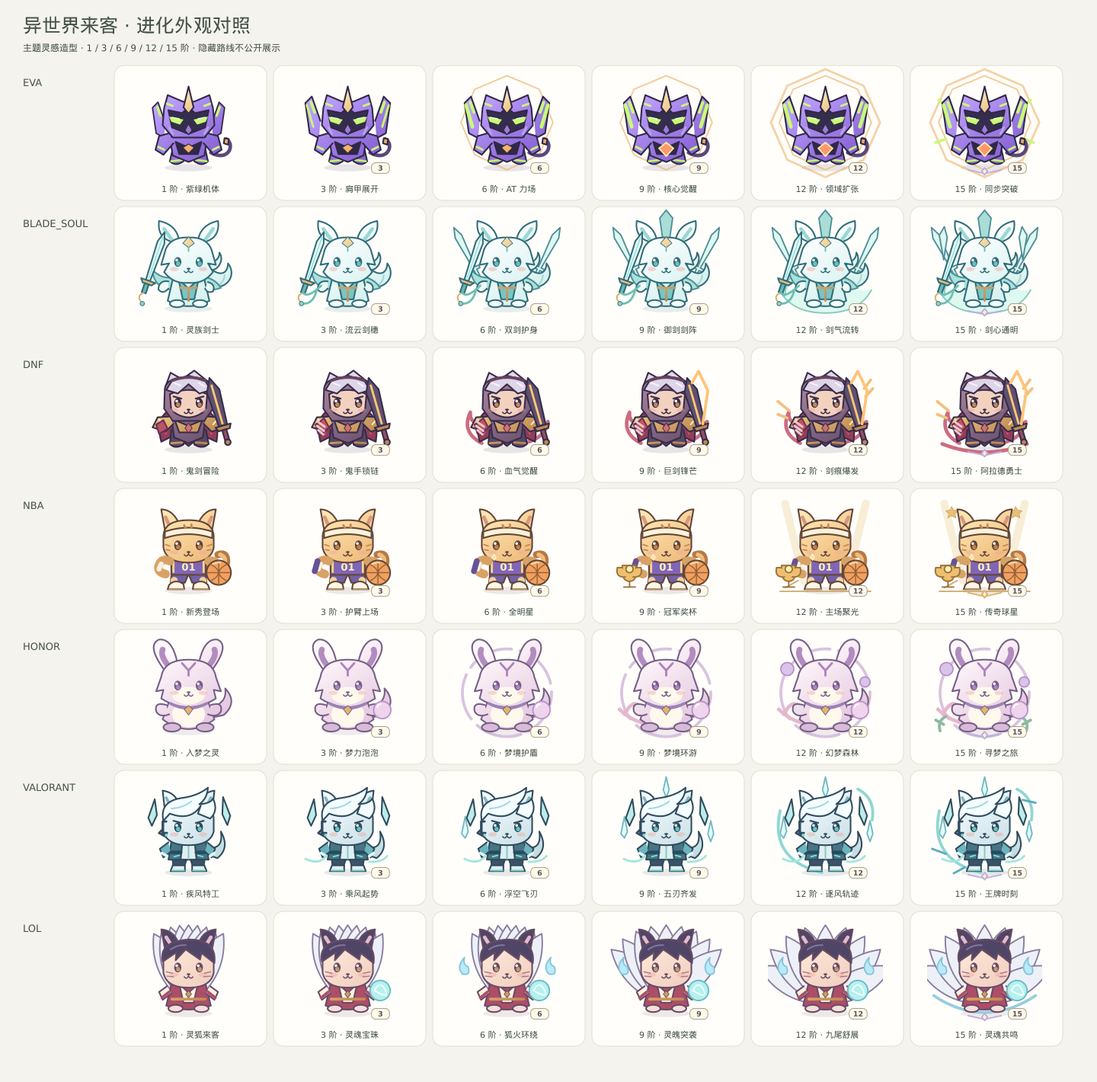
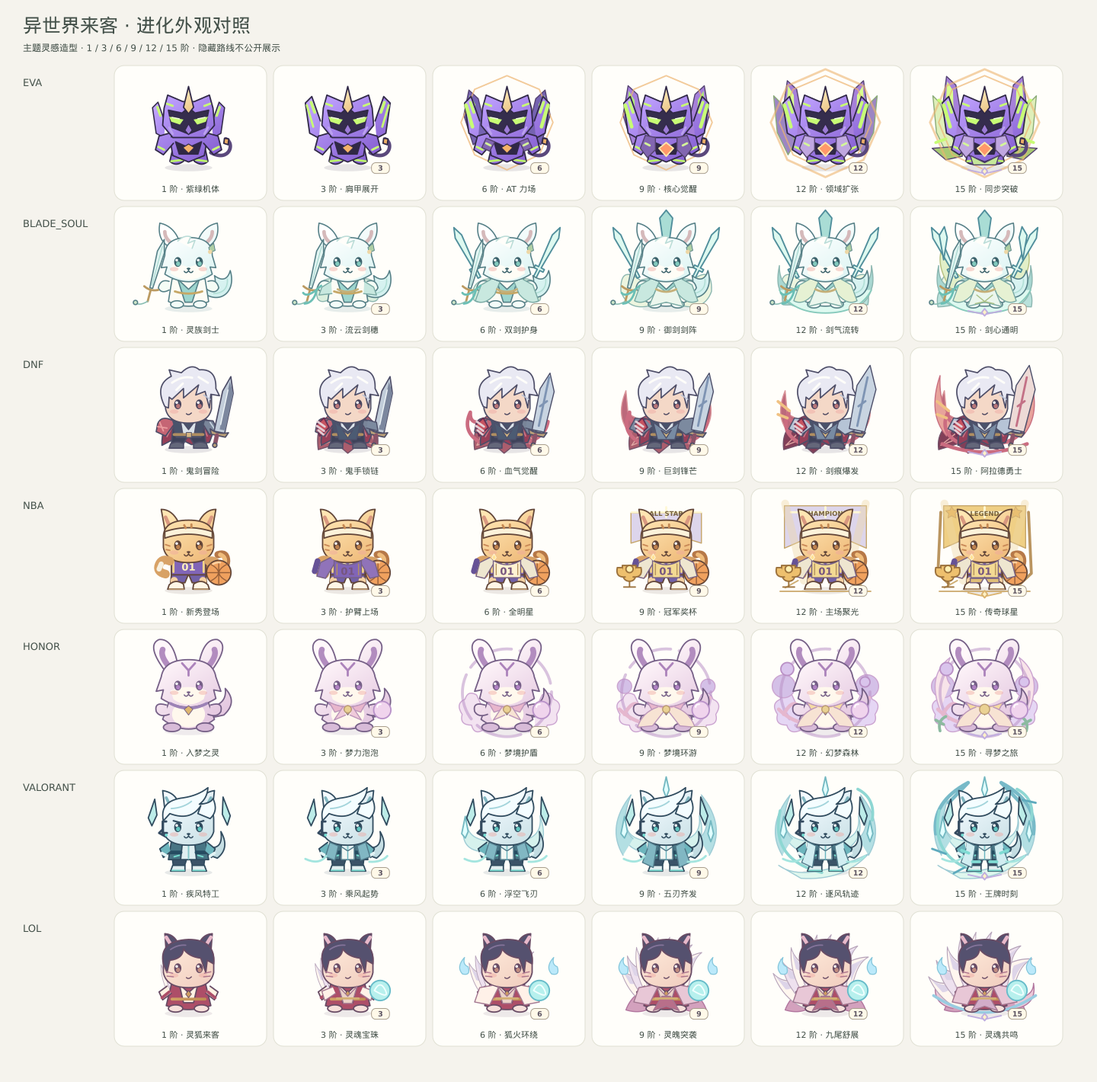
Polish pet fashion and strengthen evolved character silhouettes
Redraw the ghost swordsman and both fox-inspired companions. Add route-specific evolved clothing, armor, weapons and silhouette changes. Refine twelve wardrobe themes with softer materials, tailoring, and detailed headpieces while retaining worn round-toe shoes.

Verified TypeScript, ESLint, production build, seven frontend tests, SVG paint references, and bounds for all 48 milestone silhouettes.

diff --git a/app/pet-fashion-art.tsx b/app/pet-fashion-art.tsx
@@ -1,4 +1,4 @@
-import type { ReactNode } from "react";
+import { useId, type ReactNode } from "react";
 
 type FashionPiece = { slot: string; theme: string; primary: string; secondary: string };
 const CROPS: Record<string, string> = { headwear: "32 9 96 61", outfit: "39 93 82 48", outerwear: "26 91 108 59", handheld: "108 89 43 52", footwear: "43 122 75 24" };
@@ -10,10 +10,21 @@ function Bow({ color }: { color: string }) {
   return <g fill={color}><path d="M78 106q-13-11-12 0t12 1m4-1q13-11 12 0t-12 1" /><circle cx="80" cy="106" r="3" /></g>;
 }
 
+// 小面积服装使用同色系描边与柔和明暗，避免黑边把布料切成硬纸片。
+function tint(color: string, white: number) {
+  const channels = [1, 3, 5].map((offset) => Math.round(parseInt(color.slice(offset, offset + 2), 16) * (1 - white) + 255 * white));
+  return `rgb(${channels.join(",")})`;
+}
+
 /** Tailored to the shared face/body anchors. Icons and worn clothes use identical paths. */
 export function PetFashionArt({ item, illustrated = true, icon = false }: { item: FashionPiece; illustrated?: boolean; icon?: boolean }) {
-  const { slot, theme, primary: p, secondary: s } = item;
-  const ink = "#655765", cream = "#fff7e9";
+  const { slot, theme, primary, secondary } = item;
+  const uid = useId().replace(/[^a-zA-Z0-9_-]/g, "");
+  const fabric = `fashion-${uid}-fabric`;
+  const p = slot === "footwear" ? primary : `url(#${fabric})`;
+  const s = slot === "footwear" ? secondary : tint(secondary, .18);
+  const ink = theme === "forest" || theme === "academy" ? "#61755e" : theme === "sailor" || theme === "neon" || theme === "aurora" ? "#647e93" : theme === "berry" || theme === "phoenix" ? "#aa7880" : "#83768e";
+  const cream = "#fff9f0";
   const formal = ["starlight", "royal", "phoenix", "cosmos"].includes(theme);
   let art: ReactNode = null;
   if (slot === "headwear") art = <>
@@ -25,10 +36,20 @@ export function PetFashionArt({ item, illustrated = true, icon = false }: { item
     {theme === "detective" ? <><path d="M48 44q0-23 31-23t32 23l8 7H41Z" fill={p} /><path d="M78 23v22m-23-7h49M57 27l-2 18m45-17 3 17" stroke={s} strokeWidth="1.5" /><path d="M48 43v14l13-8m49-6v14l-13-8" fill={p} /><circle cx="79" cy="22" r="3" fill={s} /></> : null}
     {theme === "neon" ? <><path d="M44 59V44q1-24 36-24t36 24v15" stroke={p} strokeWidth="7" /><rect x="38" y="47" width="13" height="21" rx="6" fill={p} /><rect x="109" y="47" width="13" height="21" rx="6" fill={p} /><path d="M43 53v10m73-10v10" stroke={s} strokeWidth="4" /><path d="m64 23 5-6h22l5 6" stroke={s} /></> : null}
     {theme === "aurora" ? <><path d="M47 46q-3-29 33-29t33 29v12H99V47H61v11H47Z" fill={p} /><path d="M46 44q34-7 68 0v9q-34-6-68 0Z" fill={s} /><circle cx="80" cy="15" r="8" fill={s} /><path d="M80 27v12m-5-9 10 6m-10 0 10-6" stroke={s} /></> : null}
-    {formal ? <><path d={theme === "phoenix" ? "M54 46 46 31l19 5L80 16l15 20 19-5-8 15Z" : theme === "cosmos" ? "M51 47 57 26l15 9 8-22 8 22 15-9 6 21Z" : theme === "starlight" ? "M52 47 58 34l13 7 9-18 9 18 13-7 6 13Z" : "M51 47 48 27l21 10 11-20 11 20 21-10-3 20Z"} fill={s} /><path d="M53 47q27-7 54 0v6H53Z" fill={p} /><Star x={80} y={38} color={p} />{theme === "phoenix" ? <path d="M51 40q-15 13-17 1m74-1q15 13 17 1" stroke={s} strokeWidth="3" /> : null}</> : null}
+    {formal ? <g strokeWidth="1.2">
+      <path d="M50 46q30-9 60 0l-3 6q-27-6-54 0Z" fill={p} />
+      {theme === "starlight" ? <><path d="M54 45q26 6 52 0" stroke={s} strokeWidth="2" /><path d="M85 20a13 13 0 1 0 0 23q-15-8 0-23" fill={s} /><Star x={88} y={32} color={p} />{[57,65,73,87,95,103].map((x) => <circle key={x} cx={x} cy={46 + (x%3)} r="2.1" fill={cream} stroke="none" />)}</> : null}
+      {theme === "royal" ? <><path d="M78 47Q50 46 51 25m31 22q28-1 27-22" fill="none" stroke={s} strokeWidth="2" />{[0,1,2].map((i) => <g key={i} fill={s}><path d={`M${55+i*6} ${35+i*4}q-12-1-10-9 10 1 10 9m${50-i*12} 0q12-1 10-9-10 1-10 9`} /></g>)}<path d="m74 41 6-9 6 9-6 9Z" fill={s} /><circle cx="80" cy="41" r="3" fill={p} /></> : null}
+      {theme === "phoenix" ? <><path d="M78 45q-17-4-26-24 19 3 29 19-3-19 9-26 6 15-7 29 13-13 29-11-9 16-29 16Z" fill={s} /><path d="m61 28 17 16m10-21-6 20m22-7-19 10" stroke={p} fill="none" /><circle cx="80" cy="43" r="5" fill={p} /><path d="M56 48v10m48-10v10" stroke={s} /><circle cx="56" cy="58" r="2" fill={s} /><circle cx="104" cy="58" r="2" fill={s} /></> : null}
+      {theme === "cosmos" ? <><ellipse cx="80" cy="31" rx="30" ry="10" transform="rotate(-12 80 31)" stroke={s} fill="none" /><path d="M86 18a13 13 0 1 0 0 25q-17-10 0-25" fill={p} stroke={s} /><Star x={92} y={34} color={s} /><circle cx="53" cy="36" r="3" fill={s} /><circle cx="105" cy="23" r="2" fill={cream} /></> : null}
+    </g> : null}
   </>;
+  if (slot === "headwear" && theme === "berry") art = <>{art}<g fill={p} strokeWidth="1"><path d="M101 42q-13-10-13 0t13 2m3-2q13-10 13 0t-13 2" /><path d="m98 44-4 13 8-6 5 6-2-13" /><circle cx="102" cy="43" r="3" fill={s} /></g></>;
+  if (slot === "headwear" && theme === "forest") art = <>{art}{[0,1,2].map((i) => <g key={i} transform={`translate(${62+i*9} ${34+(i%2)*5})`}><path d="M0-3q6-6 6 1 7 1 1 5-1 6-5 1-6 2-3-4-4-4 1-3Z" fill={cream} strokeWidth=".7" /><circle cx="1" cy="1" r="1.6" fill={s} stroke="none" /></g>)}</>;
+  if (slot === "headwear" && theme === "aurora") art = <>{art}<path d="M57 29v10m8-14v13m8-15v13m15-13v13m8-11v13m8-9v10" stroke={cream} strokeOpacity=".6" strokeWidth="1" /></>;
+  if (slot === "headwear" && !formal && theme !== "neon") art = <>{art}<path d="M55 46q25-4 49 0" stroke={cream} strokeOpacity=".65" strokeDasharray="1 3" strokeWidth="1" fill="none" /></>;
   if (slot === "outfit") art = <>
-    <path d={theme === "cloud" || theme === "neon" ? "M57 99 68 96q12 9 24 0l11 3 8 15-9 4-3-8 4 25H84l-4-11-4 11H57l4-25-3 8-9-4Z" : theme === "berry" || theme === "forest" || formal ? "M59 98q21 10 42 0l7 10-10 4 15 20q-33 14-66 0l15-20-10-4Z" : "M57 98q23 10 46 0l9 13-12 5-1 18q-19 7-38 0l-1-18-12-5Z"} fill={p} />
+    <path d={theme === "cloud" || theme === "neon" ? "M59 99 69 97q11 8 22 0l10 2q11 3 10 14l-10 4-2-8 3 24q-9 7-18 2l-4-11-4 11q-9 5-18-2l3-24-2 8-10-4q-1-11 10-14Z" : theme === "berry" ? "M60 99q20 8 40 0 15 2 10 14l-10 1q17 18 5 23-25 8-50 0-12-5 5-23l-10-1q-5-12 10-14Z" : theme === "forest" ? "M60 99q20 9 40 0 12 2 10 12l-10 4 10 17q-5 12-30 8-25 4-30-8l10-17-10-4q-2-10 10-12Z" : theme === "starlight" ? "M63 99q17 10 34 0l6 12-9 3q5 11 19 20-15 12-33 5-18 7-33-5 14-9 19-20l-9-3Z" : theme === "royal" ? "M60 99q20 8 40 0l9 12-12 4 12 20q-29 9-58 0l12-20-12-4Z" : theme === "phoenix" ? "M59 98q21 10 42 0l15 17-14 7-5-9 8 22-25 6-25-6 8-22-5 9-14-7Z" : theme === "cosmos" ? "M62 99q18 10 36 0l9 10-11 6q5 16 19 18-22 17-35 4-13 13-35-4 14-2 19-18l-11-6Z" : "M59 99q21 9 42 0l10 12-11 5-1 18q-19 7-38 0l-1-18-11-5Z"} fill={p} />
     {theme === "academy" ? <><path d="m68 100 12 13 12-13-12 5Z" fill={cream} /><path d="m80 109-4 15 4 4 4-4Z" fill={s} /><path d="M62 123h36m-37 7h39m-30-12v17m20-17v17" stroke={s} strokeWidth=".9" opacity=".6" /></> : null}
     {theme === "berry" ? <><path d="M64 112q16 9 32 0l7 19q-23 10-46 0Z" fill={cream} /><Bow color={s} /><path d="m75 121 5-3 5 3-5 7Z" fill={p} /><path d="M51 132q3 7 7 0 4 8 8 2 5 7 9 1 5 7 10 0 5 6 9-1 4 6 8-2 5 7 8 0" fill={s} /></> : null}
     {theme === "cloud" ? <><path d="M69 110q11-8 22 0v14H69Z" fill={s} /><circle cx="80" cy="109" r="2" fill={p} /><path d="M67 100q13 12 26 0" stroke={s} strokeWidth="4" /><Star x={59} y={113} color="#ffe9ad" /></> : null}
@@ -37,12 +58,20 @@ export function PetFashionArt({ item, illustrated = true, icon = false }: { item
     {theme === "detective" ? <><path d="m68 101 12 13 12-13-4 27H72Z" fill={s} /><path d="M80 115v18m-15-11h7m16 0h7" stroke={ink} /><circle cx="84" cy="122" r="1.4" fill={ink} /><circle cx="84" cy="129" r="1.4" fill={ink} /></> : null}
     {theme === "neon" ? <><path d="m66 101 4 30m24-30-4 30M54 113l12 3m28 0 12-3" stroke={s} strokeWidth="2.5" /><path d="M74 111h12v8H74Z" fill={s} /><path d="m80 122 0 8" stroke={cream} /></> : null}
     {theme === "aurora" ? <><path d="M60 101q20 11 40 0m-38 31q18 7 36 0M80 110v24" stroke={s} strokeWidth="6" /><circle cx="75" cy="118" r="2" fill={s} /><circle cx="75" cy="125" r="2" fill={s} /></> : null}
-    {formal ? <><path d={theme === "phoenix" ? "M65 101 90 123l-6 10-19-27m29-5-26 22" : "M67 101q13 9 26 0l-7 16 18 15q-24 8-48 0l18-15Z"} fill={s} /><path d="M59 127q21 12 42 0" stroke={cream} strokeWidth="1" /><Star x={80} y={115} color={p} />{theme === "cosmos" ? <path d="M63 127q6-12 17 0t17-1" stroke={p} /> : null}</> : null}
+    {formal ? <>
+      {theme === "phoenix" ? <><path d="m64 101 29 23-6 12-22-29m30-6-27 23" fill={s} /><path d="M62 122q18 8 36 0l-1 5q-17 7-34 0Z" fill={p} /><path d="m80 126-9 12m13-12 9 12" stroke={s} strokeWidth="2" /></> : <><path d="M68 102q12 8 24 0l-6 14H74Z" fill={s} /><path d="M74 116q-2 10-14 17 12 4 20-1 8 5 20 1-12-7-14-17Z" fill={cream} fillOpacity=".75" /><path d="M56 128q24 10 48 0m-46 7q22 6 44 0" fill="none" stroke={s} strokeWidth="1.1" /></>}
+      <path d="M65 114q15 6 30 0" stroke={s} strokeWidth="2.5" /><Star x={80} y={116} color={p} />
+      {theme === "cosmos" ? <path d="M57 129q7-14 23-1t25-2" stroke={s} fill="none" /> : null}
+      {theme === "royal" ? <path d="m66 124-5 9m10-9-3 11m26-11 5 9m-10-9 3 11" stroke={s} fill="none" /> : null}
+    </> : null}
+    {/* 领口暗线与裙摆细缝线只勾轮廓，保留小尺寸下的干净色块。 */}
+    <path d="M62 101q18 8 36 0" stroke={cream} strokeOpacity=".75" strokeWidth="1" fill="none" />
+    {theme !== "cloud" && theme !== "neon" ? <path d="M60 132q20 6 40 0" stroke={cream} strokeOpacity=".6" strokeWidth=".8" strokeDasharray="1.2 2.5" fill="none" /> : null}
   </>;
   if (slot === "outerwear") art = <>
-    <path d={theme === "berry" || theme === "neon" ? "M57 99 44 104l-9 21 17 5 9-22m42-9 13 5 9 21-17 5-9-22" : theme === "detective" || formal ? "M59 97 44 108l-10 31 24 2 8-36m35-8 15 11 10 31-24 2-8-36" : "M60 98 43 105l-13 23q15 10 30-8l7-16m33-6 17 7 13 23q-15 10-30-8l-7-16"} fill={theme === "berry" ? cream : p} />
-    <path d="M56 99q24 14 48 0l-8 10-16-3-16 3Z" fill={s} />
-    <circle cx="80" cy="106" r="3" fill={p} />
+    <path d={theme === "berry" || theme === "neon" ? "M58 100q-13 0-17 11l-5 13q7 8 17 3l8-20m41-7q13 0 17 11l5 13q-7 8-17 3l-8-20" : theme === "detective" || theme === "royal" ? "M59 99q-12 1-15 12l-9 25q7 7 22 3l9-33m35-7q12 1 15 12l9 25q-7 7-22 3l-9-33" : formal ? "M59 100Q37 104 31 136q17 4 27-10l9-21m34-5q22 4 28 36-17 4-27-10l-9-21" : "M60 100q-14 0-19 13l-9 15q15 10 28-7l7-16m33-5q14 0 19 13l9 15q-15 10-28-7l-7-16"} fill={theme === "berry" ? cream : p} />
+    <path d="M57 100q10 1 23 7 13-6 23-7l-6 9q-9 2-17-2-8 4-17 2Z" fill={s} />
+    <circle cx="80" cy="107" r="2.6" fill={p} /><circle cx="79.3" cy="106.2" r=".7" fill={cream} stroke="none" />
     {theme === "aurora" || theme === "cloud" ? <path d="M42 109 34 124m84-15 8 15" stroke={s} strokeWidth="6" /> : null}
     {theme === "neon" ? <path d="m43 114-3 8 12 4m65-12 3 8-12 4" stroke={s} strokeWidth="3" /> : null}
     {theme === "forest" ? <path d="M43 110q-6 9-4 14m0-5 10-4m68-5q6 9 4 14m0-5-10-4" stroke={s} /> : null}
@@ -69,6 +98,7 @@ export function PetFashionArt({ item, illustrated = true, icon = false }: { item
   if (slot === "footwear") art = <g fill={p}><path d="M51 130q10-8 20 0v9H49Z" /><path d="M89 130q10-8 20 0l2 9H89Z" /><path d="M52 135h17m22 0h17" stroke={s} strokeWidth="3" /></g>;
   const offset = icon || illustrated ? 0 : slot === "headwear" ? -15 : slot === "footwear" ? -7 : -3;
   return <svg className={icon ? "pet-fashion-icon" : `pet-fashion-art pet-fashion-art-${slot}`} viewBox={icon ? CROPS[slot] : "0 0 160 160"} fill="none" aria-hidden="true" focusable="false">
-    <g transform={`translate(0 ${offset})`} stroke={ink} strokeWidth="1.6" strokeLinejoin="round" strokeLinecap="round">{art}</g>
+    <defs><linearGradient id={fabric} x1="0" y1="0" x2=".8" y2="1"><stop stopColor={tint(primary, .46)} /><stop offset=".48" stopColor={tint(primary, .12)} /><stop offset="1" stopColor={primary} /></linearGradient></defs>
+    <g transform={`translate(0 ${offset})`} stroke={ink} strokeWidth={slot === "footwear" ? 1.6 : 1.2} strokeLinejoin="round" strokeLinecap="round">{art}</g>
   </svg>;
 }

diff --git a/app/pet-route-art.tsx b/app/pet-route-art.tsx
@@ -1,6 +1,7 @@
 "use client";
 
 import { useId } from "react";
+import { RouteRegalia } from "./pet-route-regalia";
 import { RouteProgress } from "./pet-route-progress";
 
 export const ILLUSTRATED_ROUTES = {
@@ -24,7 +25,7 @@ function Spark({ x, y, size = 4, color = "#fff6ce" }: { x: number; y: number; si
   return <path d={`M${x} ${y - size}q0 ${size} ${size} ${size}q-${size} 0 -${size} ${size}q0 -${size} -${size} -${size}q${size} 0 ${size} -${size}`} fill={color} stroke="none" />;
 }
 
-function Face({ ink, iris, y = 75, fierce = false }: { ink: string; iris: string; y?: number; fierce?: boolean }) {
+function Face({ ink, iris, y = 75, fierce = false, human = false }: { ink: string; iris: string; y?: number; fierce?: boolean; human?: boolean }) {
   return <g className="route-face">
     <ellipse cx="60" cy={y + 10} rx="6" ry="3" fill="#eea7a0" opacity=".44" stroke="none" />
     <ellipse cx="100" cy={y + 10} rx="6" ry="3" fill="#eea7a0" opacity=".44" stroke="none" />
@@ -34,8 +35,8 @@ function Face({ ink, iris, y = 75, fierce = false }: { ink: string; iris: string
       <circle cx="63.5" cy={y - 2.5} r="1.9" fill="white" /><circle cx="93.5" cy={y - 2.5} r="1.9" fill="white" />
     </g>
     {fierce ? <path d={`M59 ${y - 9}l11 3m20 0 11-3`} fill="none" stroke={ink} strokeWidth="2.3" /> : null}
-    <path d={`M77 ${y + 9}q3-2 6 0l-3 3Z`} fill={ink} stroke="none" />
-    <path d={`M80 ${y + 12}q-3 5-6 1m6-1q3 5 6 1`} fill="none" stroke={ink} strokeWidth="1.6" />
+    {!human ? <><path d={`M77 ${y + 9}q3-2 6 0l-3 3Z`} fill={ink} stroke="none" />
+    <path d={`M80 ${y + 12}q-3 5-6 1m6-1q3 5 6 1`} fill="none" stroke={ink} strokeWidth="1.6" /></> : <path d={`M77 ${y + 13}q3 3 7-1`} fill="none" stroke={ink} strokeWidth="1.5" />}
   </g>;
 }
 
@@ -55,8 +56,9 @@ export function PetRouteArt({ path, stage = 1 }: { path: IllustratedRoute; stage
       <radialGradient id={`pet-${uid}-halo`}><stop stopColor={palette.accent} stopOpacity=".2" /><stop offset="1" stopColor={palette.accent} stopOpacity="0" /></radialGradient>
     </defs>
     <ellipse cx="80" cy="140" rx="33" ry="5" fill={ink} opacity=".12" />
+    <RouteRegalia path={path} stage={stage} />
     <RouteProgress path={path} stage={stage} />
-    <g className="route-familiar" stroke={ink} strokeWidth="2.2" strokeLinejoin="round" strokeLinecap="round">
+    <g className="route-familiar" stroke={ink} strokeWidth="1.9" strokeLinejoin="round" strokeLinecap="round">
       {path === "eva" ? <>
         <path d="M111 119c26 14 34-13 21-19" stroke="#5a487c" strokeWidth="5" /><path d="m130 99 6 1-1 8-6-2Z" fill="#e9ac66" />
         <g className="route-floating" transform={stage >= 3 ? undefined : "translate(12 14) scale(.85)"}><path d="M42 75 30 41l-9 9 6 42 13 7M118 75l12-34 9 9-6 42-13 7" fill={body} /><path d="m29 49 5 14m97-14-5 14" stroke="#c7fc75" strokeWidth="4" /></g>
@@ -69,30 +71,31 @@ export function PetRouteArt({ path, stage = 1 }: { path: IllustratedRoute; stage
         <path d="m73 56 7-29 7 29-7 9Z" fill={metal} /><path d="m75 88 5-9 5 9-5 6Z" fill="#9c7bd6" strokeWidth="1.3" /><path d="m50 51 8 3m44 0 8-3" stroke="#c7fc75" strokeWidth="3" />
         <path d="m53 84 5 9m49-9-5 9" stroke="#bba2ee" strokeWidth="3" />
       </> : null}
-      {path === "blade_soul" ? <>
-        <path d="M106 109c27 7 42-15 29-32-1 17-13 16-22 9 8 0 17-14 10-24 0 14-14 12-22 25" fill={body} /><path d="M114 113q16-8 16-20" stroke="#a7d7d4" />
-        <path d="M61 96q-19 4-32-11 3 25 24 28m45-17q17 0 27 15-17 6-26-1" fill="#a8e2dc" stroke="#548f98" />
-        <path d="M60 91q20-9 40 0l9 38q-29 15-58 0Z" fill={body} /><path d="m66 99 14 13 14-13-6 28H72Z" fill="#75c6c7" /><path d="m68 111 24 0m-12 1 0 17" stroke={metal} strokeWidth="3" />
-        <ellipse cx="64" cy="133" rx="10" ry="5" fill="#f3fcf8" /><ellipse cx="96" cy="133" rx="10" ry="5" fill="#f3fcf8" />
-        <path d="M57 47Q36 41 39 18q24 5 28 27m26 0q4-22 28-27 3 23-18 29" fill={body} /><path d="m46 29 13 18m42 0 13-18" stroke="#99d8d5" strokeWidth="5" />
-        <path d="M48 58q7-18 32-17 25-1 32 17l6 21-11-2 7 12q-13 17-34 15-21 2-34-15l7-12-11 2Z" fill={body} />
-        <path className="route-personal-accent" d="m72 49 8-9 8 9-8 6Z" fill={metal} strokeWidth="1" /><path d="m80 55 0 5" stroke="#67bdb9" strokeWidth="2" />
-        <Face ink={ink} iris="#66bfbc" />
-        <path d="M52 102q-13-2-14 11 6 8 14-1m55-9q11 3 7 13-8 3-11-4" fill="#effaf5" />
-        <g className="route-floating" transform="rotate(19 31 79)"><path d="M28 102 26 46l5-15 5 15-2 56Z" fill="#e9fffc" /><path d="m31 38 0 61" stroke="#8bdedb" strokeWidth="1.5" /><path d="M21 102h21l-4 5H25Z" fill={metal} /><path d="M28 107h6v13h-6Z" fill="#67b8b9" /><path d="M31 120q-9 8 2 14" stroke="#d5b171" /><circle cx="34" cy="135" r="3" fill="#8dd4ca" strokeWidth="1" /></g>
-      </> : null}
-      {path === "dnf" ? <>
-        <path d="M52 86q-18 11-10 43l18-9 20 15 19-15 20 9q5-34-13-43" fill="#953c58" /><path d="m48 118 8-19m48 0 8 19" stroke="#c15e70" />
-        <path d="m56 112-2 20q7 8 19 1l3-20m10 0 2 20q12 7 20-1l-4-20" fill="#564864" /><path d="m56 131 15-1m19 0 15 1" stroke={metal} strokeWidth="3" />
-        <path d="m56 93 24-8 24 8-4 30-20 8-20-8Z" fill={body} /><path d="m61 99 19 8 19-8-6 17H67Z" fill={metal} /><path className="route-personal-accent" d="m75 110 5-7 5 7-5 7Z" fill="#d96e71" strokeWidth="1" />
-        <path d="M48 52 55 33l16 9 17-12 21 17-7 12Z" fill="#e3d6e8" />
-        <path d="M47 55q3-16 33-16t33 16l1 28-12 17H58L46 83Z" fill={body} /><path d="M54 63q26-12 52 0l-2 22q-24 20-48 0Z" fill="#f2d1bf" />
-        <path d="m49 57 16 5 15-13 15 13 16-5-8-13-23-7-23 7Z" fill="#ded5e8" /><path d="m59 47 10 4m25-4 8 5" stroke="#f7f1ff" /><path d="M57 44q23-9 46 0" stroke="#67455f" strokeWidth="4" />
-        <Face ink={ink} iris="#c48755" y={75} fierce />
-        <path d="m53 94-16 1-7 14 18 6 11-11m48-10 16 1 7 14-18 6-11-11" fill={metal} /><path d="m39 98 6 7m75-7-6 7" stroke="#fff0c9" strokeWidth="2" />
-        <path d="m45 99-10 6 4 13 12-7Z" fill="#bc5267" stroke="#692f52" />
-        <g transform="rotate(-16 125 96)"><path d="m119 107-3-50 9-19 9 19-3 50Z" fill="#5f506e" /><path d="m125 49 0 55" stroke="#ffc776" strokeWidth="3" /><path d="m114 107 22 0-3 6h-16Z" fill={metal} /><path d="M122 113h6v17h-6Z" fill="#925065" /><circle cx="125" cy="131" r="4" fill={metal} /></g>
-      </> : null}
+      {path === "blade_soul" ? <g stroke="#557f86" strokeWidth="1.7">
+        <path d="M99 117c25 19 48-1 39-30-5 18-17 11-22 7 4 15-3 16-17 23Z" fill={body} /><path d="M115 119q20-1 19-20" stroke="#b0ded5" />
+        <path d="M57 99q23-14 46 0l5 31q-28 13-56 0Z" fill="#fcfcf5" /><path d="m65 99 15 14 15-14-10 32H75Z" fill="#9dd5ce" /><path d="M61 116q19 6 38 0" stroke="#c6a765" strokeWidth="3" />
+        <ellipse cx="64" cy="134" rx="9" ry="5" fill="#f3fcf8" /><ellipse cx="96" cy="134" rx="9" ry="5" fill="#f3fcf8" />
+        <path d="M53 54Q36 44 40 21q20 4 28 27m24 0q8-23 28-27 4 23-13 33" fill={body} /><path d="M47 33q0 10 11 17m44 0q11-7 11-17" stroke="#d5b9ba" strokeWidth="5" />
+        <path d="M47 66q0-25 33-25t33 25l5 17-8-1 3 10q-33 21-66 0l3-10-8 1Z" fill={body} />
+        <path d="M57 79q9-3 23 4 14-7 23-4l2 12q-25 18-50 0Z" fill="#fffdf6" stroke="none" />
+        <path d="M65 46q9-9 18-6l-4 9 10-4-4 11" stroke="#badcd7" fill="#fffefa" />
+        <Face ink="#3b626b" iris="#83c9bd" y={75} />
+        <path className="route-personal-accent" d="m108 55 7-6 2 10-7 3Z" fill="#afcfa5" strokeWidth="1" /><circle cx="110" cy="61" r="3" fill="#edd7a6" stroke="none" />
+        <path d="M53 102q-12-4-15 9 4 9 15 3m54-12q12-4 15 9-4 9-15 3" fill="#f4fcf5" />
+        <g className="route-floating" transform="translate(3 0) rotate(15 30 93)"><path d="m28 112-3-52 5-18 5 18-3 52Z" fill="#e2f5f2" /><path d="M30 52v56" stroke="#99cfc7" strokeWidth="1" /><path d="M20 112q10 5 20 0m-10 3v16" stroke="#bb9a61" strokeWidth="3" /><path d="M30 131q-11 11-17 5" stroke="#88bdb2" /><circle cx="14" cy="137" r="3" fill="#cde6c8" /></g>
+      </g> : null}
+      {path === "dnf" ? <g stroke="#4d4d67" strokeWidth="1.8">
+        <path d="M58 97q-16 11-15 37l21-11 20 10 25-3 8-21-18-16Z" fill="#963f58" /><path d="m50 122 7-14m49 13-6-14" stroke="#c97685" />
+        <path d="M58 111h44l2 21-15 3-9-15-9 15-15-3Z" fill="#3e4259" /><path d="M55 132q10-5 18 0v6H53Zm32 0q10-5 18 0l2 6H87Z" fill="#64677a" />
+        <path d="M56 98q24-12 48 0l-7 25H63Z" fill="#49536b" /><path d="m68 96 12 16 12-16-4 23H72Z" fill="#dbe3ea" /><path d="M60 119h40" stroke="#af8e61" strokeWidth="4" /><path className="route-personal-accent" d="M77 116h7v7h-7Z" fill="#d4b682" strokeWidth="1" />
+        <path d="M48 65q-2-27 32-27t32 27v18q-4 20-32 20T48 83Z" fill="#f4d8c7" />
+        <path d="M47 80q-15-30 9-42l-3-9 17 4q14-14 25-4 24-2 23 26l5 10-12-2-2 19-6-23-13 5 4-14-21 18 0-13-16 15-4-3-1 15Z" fill="#e9e9f3" />
+        <path d="M57 47q14-10 28-7m9-1 13 8m-35 1-9 9" stroke="#fffefa" strokeWidth="3" /><path d="m101 64 9 6" stroke="#bbc4d7" />
+        <Face ink="#48445d" iris="#b87679" y={77} human />
+        <path d="M57 99q-15-7-20 5l-2 11 13 6 11-15" fill="#c56574" /><path d="m40 102 5 12m-8-6 13 2" stroke="#ea9b9e" strokeWidth="2" />
+        <path d="m103 99 11 1 7 14-12 5-8-13" fill="#798599" /><path d="m110 102 6 9" stroke="#c7d4df" />
+        <g transform="rotate(12 126 94)"><path d="M120 116V59l7-22 8 22v57Z" fill="#c1ccd9" /><path d="M127 44v68h8V59Z" fill="#7c879e" stroke="none" /><path d="M127 56v49" stroke="#edf4f7" strokeWidth="1.5" /><path d="M114 114q12 6 26 0l-3 7h-20Z" fill="#bba079" /><path d="M125 121v13" stroke="#8b5368" strokeWidth="6" /><circle cx="125" cy="135" r="3" fill="#bba079" /></g>
+      </g> : null}
       {path === "nba" ? <>
         <path d="M105 109q26 12 28-10 0-13-12-9" stroke="#b67848" strokeWidth="10" /><path d="M128 107q7-13-4-17" stroke="#efbc7b" strokeWidth="6" />
         <path d="M58 102h44l3 27H85l-5-12-5 12H55Z" fill="#7261a7" /><path d="M60 126v6m40-6v6" stroke="#f4d0a1" strokeWidth="10" />
@@ -138,10 +141,10 @@ export function PetRouteArt({ path, stage = 1 }: { path: IllustratedRoute; stage
         <path d="M57 96q23-11 46 0l8 33q-31 11-62 0Z" fill="#ad4e68" />
         <path d="m67 99 13 12 13-12-6 26H73Z" fill="#fff1e2" /><path d="M57 120h46" stroke={metal} strokeWidth="4" />
         <ellipse cx="62" cy="133" rx="10" ry="5" fill="#f6dfda" /><ellipse cx="98" cy="133" rx="10" ry="5" fill="#f6dfda" />
-        <path d="M48 55 42 23q20 2 25 23m26 0q5-21 25-23l-6 32" fill="#4f4667" /><path d="m49 34 10 16m42 0 10-16" stroke="#e8b9ca" strokeWidth="5" />
+        <path d="M49 56 47 29q16 1 21 21m24 0q5-20 21-21l-2 27" fill="#55516f" /><path d="m49 34 10 16m42 0 10-16" stroke="#e8b9ca" strokeWidth="5" />
         <path d="M45 65q0-24 35-24t35 24v18q-4 21-35 21T45 83Z" fill={body} />
-        <path d="M44 68q-6-28 36-31 40 0 36 33L98 56l-2 9-20-14-14 15 1-11Z" fill="#4f4667" /><path d="M55 51q10-7 21-6" stroke="#84739a" />
-        <Face ink={ink} iris="#c3986c" y={76} />
+        <path d="M45 71q-7-32 35-34 38 0 35 34l-9-5-2 17-7-20q-17-2-24-13-1 14-19 16l-4 17Z" fill="#55516f" /><path d="M55 51q10-7 21-6" stroke="#84739a" />
+        <Face ink={ink} iris="#bf8b80" y={77} human />
         <path d="m49 82 9 2m-8 4 9 1m43-5 9-2m-10 7 9-1" stroke="#ad748c" strokeWidth="1.5" />
         <path d="m50 102-11 8 5 11 12-9m54-10 11 8-5 11-12-9" fill="#fff1e2" /><path d="m43 118 10-8m54 0 10 8" stroke="#ad4e68" strokeWidth="4" />
         <path className="route-personal-accent" d="m76 113 4-5 4 5-4 5Z" fill={metal} strokeWidth="1" />
@@ -160,6 +163,7 @@ export function PetRouteArt({ path, stage = 1 }: { path: IllustratedRoute; stage
         <path d="M52 104q-10-4-11 6 4 8 11 4m56-10q10-4 11 6-4 8-11 4" fill="#9990c9" />
       </> : null}
     </g>
+    <RouteRegalia path={path} stage={stage} front />
     <RouteProgress path={path} stage={stage} front />
   </svg>;
 }

diff --git a/app/pet-route-regalia.tsx b/app/pet-route-regalia.tsx
@@ -1,0 +1,62 @@
+import type { IllustratedRoute } from "./pet-route-art";
+import { routeMilestoneIndex } from "./pet-route-progress";
+
+/** 进阶直接更换轮廓与服饰；脸部和脚的位置不变，衣柜仍可正常叠穿。 */
+export function RouteRegalia({ path, stage, front = false }: { path: IllustratedRoute; stage: number; front?: boolean }) {
+  const tier = routeMilestoneIndex(stage);
+  if (!tier) return null;
+  const mature = tier >= 3, exalted = tier >= 4, final = tier === 5;
+  const spread = [0, 0, 4, 10, 17, 23][tier];
+  if (!front) return <g data-regalia-tier={tier} strokeWidth="1.5" strokeLinecap="round" strokeLinejoin="round">
+    {path === "eva" && tier >= 2 ? <g stroke="#544270">
+      {[-1, 1].map((side) => <g key={side} transform={`translate(80 84) scale(${side} 1)`}>
+        <path d={`M28 9 40 ${-36-spread} 53 ${-48-spread} 60 -17 47 24Z`} fill={mature ? "#a680da" : "#7563b1"} />
+        <path d={`m44 ${-28-spread} 8-13 2 29-11 22Z`} fill={exalted ? "#d9ff8f" : "#b0e97a"} stroke="none" />
+        {exalted ? <path d={`M42 21 62 -34 72 -44 67 7 52 38Z`} fill={final ? "#dfefb9" : "#9c86c3"} stroke="#8baa78" /> : null}
+        {final ? <path d="M32 26 73 29 54 45 31 40Z" fill="#a9ca73" /> : null}
+      </g>)}
+    </g> : null}
+    {path === "blade_soul" ? <g stroke="#8cb6b0" fill={mature ? "#b9e1db" : "#dbefde"}>
+      <path d={`M57 98Q${31-spread} 101 ${38-spread} ${126+spread/2}Q45 137 67 118m36-20q${26+spread} 3 ${19+spread} ${28+spread/2}Q115 137 93 118`} />
+      {mature ? <path d={`M55 110Q${10+spread/2} 72 17 116q11 30 47 18m41-24q${45-spread/2}-38 38 6-11 30-47 18`} fill="#edf5df" /> : null}
+      {exalted ? <path d="M42 123Q6 130 16 80q-1 37 39 33m63 10q36 7 26-43 1 37-39 33" fill="#a9d7d1" /> : null}
+      {final ? <path d="M33 112Q7 73 26 47q-9 31 24 50m77 15q26-39 7-65 9 31-24 50" fill="#e2efc8" stroke="#b5be7e" /> : null}
+    </g> : null}
+    {path === "dnf" ? <g stroke="#725067">
+      <path d={`M56 91Q${34-spread} 105 ${39-spread} 140l26-8 15 13 16-13 25 8q${5+spread}-35-17-49Z`} fill={exalted ? "#823f58" : "#ab5d6d"} />
+      <path d={`M49 110  ${42-spread} 134l18-7m51-17 ${7+spread} 24-18-7`} stroke="#e0a6a2" fill="none" />
+      {mature ? <path d="M32 119Q8 97 24 58l3 32 13 7m88 22q24-22 8-61l-3 32-13 7" fill="#bc697b" stroke="#d99599" /> : null}
+      {final ? <path d="M27 121Q0 90 18 37q-2 47 20 62m95 22q27-31 9-84 2 47-20 62" fill="#e7a39b" stroke="#c86f80" /> : null}
+    </g> : null}
+    {path === "nba" && mature ? <g stroke="#c5a56b">
+      <path d={exalted ? "M23 22h114v59l-23-10-34 11-34-11-23 10Z" : "M31 32h98v42l-23-7-26 11-26-11-23 7Z"} fill={final ? "#efcf85" : "#ddd5eb"} />
+      <path d="M32 31h96M80 24v14" stroke="#fff8d5" strokeWidth="3" />
+      <text x="80" y="36" fontFamily="sans-serif" fontSize="9" fontWeight="800" textAnchor="middle" fill="#77623d" stroke="none">{final ? "LEGEND" : exalted ? "CHAMPIONS" : "ALL STAR"}</text>
+      {final ? <path d="m19 31-4 85 15 14m111-99 4 85-15 14" stroke="#ba9560" strokeWidth="4" fill="none" /> : null}
+    </g> : null}
+    {path === "honor" && tier >= 2 ? <g stroke="#cba4d0" fill={exalted ? "#e5d6f4" : "#f3e3f1"}>
+      <path d={`M48 137q-${12+spread/3} 9-${16+spread/3}-6-17 0-13-15-10-15 4-21 4-13 16-6l10 21m71 27q${12+spread/3} 9 ${16+spread/3}-6 17 0 13-15 10-15-4-21-4-13-16-6l-10 21`} />
+      {mature ? <g fill="#d4c0e7"><circle cx="22" cy="77" r={exalted ? 16 : 10} /><circle cx="138" cy="77" r={exalted ? 16 : 10} /></g> : null}
+      {final ? <path d="M18 110Q-1 62 32 37q-10 25 0 37m110 36q19-48-14-73 10 25 0 37" fill="#f8e4e9" /> : null}
+    </g> : null}
+    {path === "valorant" && tier >= 2 ? <g stroke="#9ecbd4" fill="#d6f2ed">
+      <path d={`M46 111Q${6+spread/2} ${112-spread} 24 61q-4 33 32 35m48 15q${40-spread/2} ${1-spread} 22-50 4 33-32 35`} />
+      {mature ? <path d="M20 116Q-4 76 31 32q-17 43 3 61m106 23q24-40-11-84 17 43-3 61" fill="#b3dfe3" /> : null}
+      {exalted ? <path d="M15 130Q50 156 140 114q-35 38-94 34Z" fill="#dff7ee" /> : null}
+      {final ? <path d="M12 86Q6 42 57 15L30 43m118 43q6-44-45-71l27 28" stroke="#78bac8" strokeWidth="5" fill="none" /> : null}
+    </g> : null}
+    {path === "lol" && mature ? <g fill="#d3a1bd" stroke="#b1769e"><path d="M56 106q-23 5-32 29 26 8 43-10m37-19q23 5 32 29-26 8-43-10" />{final ? <path d="M36 133q-29-6-24-35 0 20 29 21m83 14q29-6 24-35 0 20-29 21" fill="#ecc9d8" /> : null}</g> : null}
+    {path === "nexus" ? <g stroke="#b4a1d5">{[-1, 1].map((side) => <g key={side} transform={`translate(80 104) scale(${side} 1)`}>{Array.from({length:tier+1},(_,i) => <path key={i} d={`M22 19Q${42+i*3} ${-25-i*8} ${48+i*5} ${-36-i*5}Q${74-i*2} ${2+i*6} 25 30Z`} fill={i%2 ? "#d0bce8" : "#8f83b6"} />)}</g>)}</g> : null}
+  </g>;
+
+  return <g data-regalia-front={tier} strokeWidth="1.5" strokeLinecap="round" strokeLinejoin="round">
+    {path === "eva" && tier >= 2 ? <g stroke="#53416c"><path d={mature ? "M51 95 65 98 65 115 54 126 44 113Zm58 0-14 3v17l11 11 10-13Z" : "m51 99 12 5-7 13-11-5Zm58 0-12 5 7 13 11-5Z"} fill={exalted ? "#c0a7e0" : "#8266b0"} /><path d="m51 106 6 3m46 0 6-3" stroke="#d3f699" strokeWidth="3" />{final ? <path d="m60 123 20 10 20-10-4 13H64Z" fill="#c5e79a" /> : null}</g> : null}
+    {path === "blade_soul" ? <g stroke="#79a9a3"><path d={tier >= 2 ? "M58 99 44 107l-8 22q13 7 27-9l7-17m32-4 14 8 8 22q-13 7-27-9l-7-17" : "M57 102 44 110l-4 11 18-2m45-17 13 8 4 11-18-2"} fill={exalted ? "#e6f1d3" : "#c8e8df"} />{mature ? <path d="M68 108 56 137l24-6 24 6-12-29-12 9Z" fill="#ebf6ed" /> : null}<path d="M66 113q14 7 28 0" stroke="#c5b079" strokeWidth="3" />{final ? <path d="m69 121 11 9 11-9m-24 12 13-3 13 3" stroke="#aac185" fill="none" /> : null}</g> : null}
+    {path === "dnf" ? <g stroke="#4d506a"><path d={mature ? "m51 98-14-2-8 15 18 8 14-11m42-10 14-2 8 15-18 8-14-11" : "m52 99-12 3-2 12 16-4m54-11 12 3 2 12-16-4"} fill={exalted ? "#b6c4d6" : "#7c8a9f"} /><path d="m62 102 18 13 18-13-6 24H68Z" fill={mature ? "#788ba3" : "#4c5b73"} /><path d="m73 113 7 5 7-5-7 11Z" fill="#d7b980" />{tier >= 2 ? <g transform="rotate(12 126 94)"><path d={exalted ? "m117 113-2-61 12-31 15 31-3 61Z" : "m119 114-1-58 9-24 11 24-2 58Z"} fill={final ? "#eddad6" : "#c8d4e1"} /><path d="m127 38 0 69m-4-27 8-9" stroke={final ? "#c37186" : "#7e94b3"} strokeWidth="3" /></g> : null}</g> : null}
+    {path === "nba" ? <g stroke="#766083"><path d="m56 94-14 7-5 19 12 3 14-23m41-6 14 7 5 19-12 3-14-23" fill={tier >= 2 ? "#eee6d0" : "#9073b9"} /><path d="M61 98q19 12 38 0v24H61Z" fill={mature ? "#f3da93" : tier >= 2 ? "#fff3d3" : "#8165b7"} /><path d="M65 103v15m30-15v15" stroke="#b4915f" /><text x="80" y="118" fontSize="14" fontFamily="sans-serif" fontWeight="800" fill="#76557e" textAnchor="middle" stroke="none">01</text>{final ? <path d="M60 123h40v6H85l-5-8-5 8H60Z" fill="#dfbd77" /> : null}</g> : null}
+    {path === "honor" ? <g stroke="#bb95b9"><path d="M54 99q26 13 52 0l-8 14-18-6-18 6Z" fill={exalted ? "#f5dba2" : "#e8b6cc"} /><path d={mature ? "M68 106q-21 7-28 28l21-2 18-23m13-3q21 7 28 28l-21-2-18-23" : "M73 106 61 124l16-7m10-11 12 18-16-7"} fill={tier >= 2 ? "#f7e3d3" : "#efcada"} /><circle cx="80" cy="109" r={final ? 7 : 5} fill="#ead193" stroke="#b99a70" /></g> : null}
+    {path === "valorant" ? <g stroke="#507989"><path d={mature ? "m55 97 12 6-5 30-15-7 7-19m51-10-12 6 5 30 15-7-7-19" : "m55 98 12 5-5 20-13-5Zm50 0-12 5 5 20 13-5Z"} fill={exalted ? "#d1edf1" : "#81b7c3"} /><path d="m71 104 9 6 9-6v18H71Z" fill="#f2f7f3" /><path d="M80 111v11" stroke="#67b4bf" />{final ? <path d="m48 109 10 4m44 0 10-4M63 125h10m14 0h10" stroke="#80dbd3" strokeWidth="4" /> : null}</g> : null}
+    {path === "lol" ? <g stroke="#a27690"><path d={tier >= 2 ? "m59 101-17 3-7 20 21 4 12-24m33-3 17 3 7 20-21 4-12-24" : "m59 103-15 6 4 13 15-10m38-9 15 6-4 13-15-10"} fill={mature ? "#e8c7d6" : "#fff1e8"} /><path d="M67 102 80 116l13-14-7 24H74Z" fill={exalted ? "#ead8b6" : "#ebd3c8"} />{mature ? <path d="m74 116-12 20 18-6 18 6-12-20Z" fill={final ? "#d2adc9" : "#b86f8a"} /> : null}<path d="M65 119h30" stroke="#d3b076" strokeWidth="3" /></g> : null}
+    {path === "nexus" ? <g stroke="#b6a2d1"><path d={mature ? "M54 99 40 117l11 24 29-13 29 13 11-24-14-18-26 15Z" : "M55 101 49 127l31 10 31-10-6-26-25 12Z"} fill={exalted ? "#6e649c" : "#45456f"} /><path d="m66 116 14 11 14-11-14 20Z" fill={final ? "#f0d2b3" : "#d6c0ed"} /></g> : null}
+  </g>;
+}

diff --git a/app/pet-route-progress.tsx b/app/pet-route-progress.tsx
@@ -26,7 +26,6 @@ export function RouteProgress({ path, stage, front = false }: { path: Illustrate
     {path === "eva" && c ? <path d="m70 113 10-8 10 8-10 11Z" fill="#ff986a" stroke="#ffe8ad" /> : null}
     {path === "blade_soul" && a ? <path d="M43 108q-19 18-25 10m19-5q-4 19-17 20" stroke="#6bbfb5" strokeWidth="3" /> : null}
     {path === "dnf" && a ? <g><path d="m47 96-10 9 4 16 13-12Z" fill="#c75360" stroke="#692f52" /><path d="m38 101 10 7m-11-1 10 7m-8-1 7 6" stroke="#e5ced5" strokeWidth="3" /></g> : null}
-    {path === "dnf" && c ? <path d="m116 47 9-16 13 27-7 46" stroke="#ffc479" strokeWidth="4" /> : null}
     {path === "nba" && a ? <path d="m38 99-4 14" stroke="#665296" strokeWidth="8" /> : null}
     {path === "nba" && b ? <path d="m59 94 3-5 3 5-3 4Z" fill="#ffe295" stroke="#fff5d6" strokeWidth="1" /> : null}
     {path === "nba" && c ? <g fill="#eec06e" stroke="#9b713c"><path d="M19 105h19v10q0 12-9 12t-10-12Z" /><path d="M19 108h-7q-3 14 11 13m15-13h7q3 14-11 13M29 127v8m-8 0h16" /><circle cx="29" cy="110" r="5" fill="#fff0b3" /></g> : null}
@@ -45,7 +44,15 @@ export function RouteProgress({ path, stage, front = false }: { path: Illustrate
     {path === "nba" ? <g stroke="#cead73">{d ? <><path d="m24 19 26 107M136 19l-26 107" stroke="#edd7a3" strokeWidth="11" opacity=".4" /><path d="M17 141h126m-119-5 18-10m94 10-18-10" /></> : null}{e ? <g fill="#e9bf72" strokeWidth="1"><path d="m34 23 3 5 6 1-4 4 1 6-6-3-5 3 1-6-4-4 6-1Z" /><path d="m123 23 3 5 6 1-4 4 1 6-6-3-5 3 1-6-4-4 6-1Z" /></g> : null}</g> : null}
     {path === "honor" ? <g stroke="#ba91c6">{b ? <ellipse cx="80" cy="86" rx="62" ry="61" strokeWidth="4" strokeDasharray="65 12" opacity=".55" /> : null}{c ? <path d="M15 109q50 48 126-16M22 116q14-26 25-6" stroke="#e5b7ce" strokeWidth="5" /> : null}{d ? <g fill="#d9c4ec"><circle cx="27" cy="53" r="9" /><circle cx="135" cy="71" r="7" /><circle cx="115" cy="25" r="6" /></g> : null}{e ? <path d="M18 139q-4-14 8-20m-3 11-11-6m126 15q4-14-8-20m3 11 11-6" stroke="#8cbaa0" strokeWidth="4" /> : null}</g> : null}
     {path === "valorant" ? <g stroke="#74b8c1" fill="#e1ffff">{b ? <path d="m17 86 5-24 4 21-4 9Z" /> : null}{c ? <path d="m80 7 4 18-4 11-4-11Zm62 61 4 18-4 11-4-11Z" /> : null}{d ? <path d="M17 54Q2 122 75 140m70-73q5-30-20-43" stroke="#8ed7d3" strokeWidth="4" fill="none" /> : null}{e ? <path d="m7 107 19 7m107-75 18 4M37 141l15-8" stroke="#5eaabd" strokeWidth="3" /> : null}</g> : null}
-    {path === "lol" ? <g stroke="#897c9f">{([-4,-3,-2,-1,0,1,2,3,4].map((index) => index * (d ? 16 : c ? 12 : 7))).map((angle) => <path key={angle} transform={`rotate(${angle} 80 120)`} d="M73 124Q47 65 80 17q33 48 7 107Z" fill="#edf1f7" />)}{b ? <g stroke="#84c6db" fill="#bbe9fa"><path d="M18 85q-9-10 3-23-3 10 5 13 4 13-8 10Zm120 0q-9-10 3-23-3 10 5 13 4 13-8 10Z" /></g> : null}{e ? <path d="M9 115q71 47 142 0" stroke="#99cce1" strokeWidth="4" /> : null}</g> : null}
+    {path === "lol" ? <g stroke="#b4a1b7" strokeWidth="1.35">
+      <g transform="translate(80 0) scale(.84 1) translate(-80 0)">{[-4,4,-3,3,-2,2,-1,1,0].map((index) => <g key={index} transform={`translate(80 126) rotate(${index * (e ? 15 : d ? 14 : c ? 12 : b ? 10 : a ? 9 : 8)}) scale(${e ? 1.02 : d ? .98 : c ? .94 : b ? .86 : a ? .79 : .72}) translate(-80 -126)`}>
+        <path d="M76 128C48 113 43 64 66 29c-5 31 27 43 26 69q1 20-16 30Z" fill={index % 2 ? "#eee1ee" : "#fff6ef"} />
+        <path d="M66 29c-4 18 5 33 13 43q-16-5-20-13" fill="#ddd4e8" stroke="none" />
+        <path d="M77 115q-17-21-14-41" fill="none" stroke="#e2cfdc" />
+      </g>)}</g>
+      {b ? <g stroke="#84c6db" fill="#bbe9fa"><path d="M18 85q-9-10 3-23-3 10 5 13 4 13-8 10Zm124 0q-9-10 3-23-3 10 5 13 4 13-8 10Z" /></g> : null}
+      {e ? <path d="M9 115q71 47 142 0" stroke="#99cce1" strokeWidth="4" fill="none" /> : null}
+    </g> : null}
     {path === "nexus" ? <g stroke="#c3abeb">{b ? <path d="m42 91-26-28 5 30-11 5 34 20m74-27 26-28-5 30 11 5-34 20" fill="#8274b1" /> : null}{c ? <ellipse cx="80" cy="79" rx="67" ry="43" transform="rotate(30 80 79)" /> : null}{d ? <path d="m22 39 31-23 59 3 25 27m-84-30 27 18 32-15" strokeDasharray="3 4" /> : null}{e ? <circle cx="80" cy="80" r="74" strokeWidth="3" strokeDasharray="1 13" /> : null}</g> : null}
   </g>;
 }

diff --git a/README.md b/README.md
@@ -46,7 +46,7 @@
 
 “小镜暖暖”12 个主题的帽子、衣服、披肩和手持物采用独立矢量轮廓，按基础小镜与进化角色分别对齐；圆头鞋保留原有样式。套装、单件与收藏使用相同绘制部件，支持混搭和原有试穿/保存流程；时装 ID、解锁等级与收藏数据保持兼容。
 
-[进化阶段对照](docs/pet-route-evolution.png) · [十二套时装预览](docs/wardrobe-preview.png) · [设计与验证说明](docs/pet-visual-design.md)
+[鬼剑与灵狐重绘对照](docs/pet-character-refinement.png) · [进化阶段对照](docs/pet-route-evolution.png) · [十二套时装预览](docs/wardrobe-preview.png) · [设计与验证说明](docs/pet-visual-design.md)
 
 
 ![新路线角色预览](docs/pet-route-preview.png)
